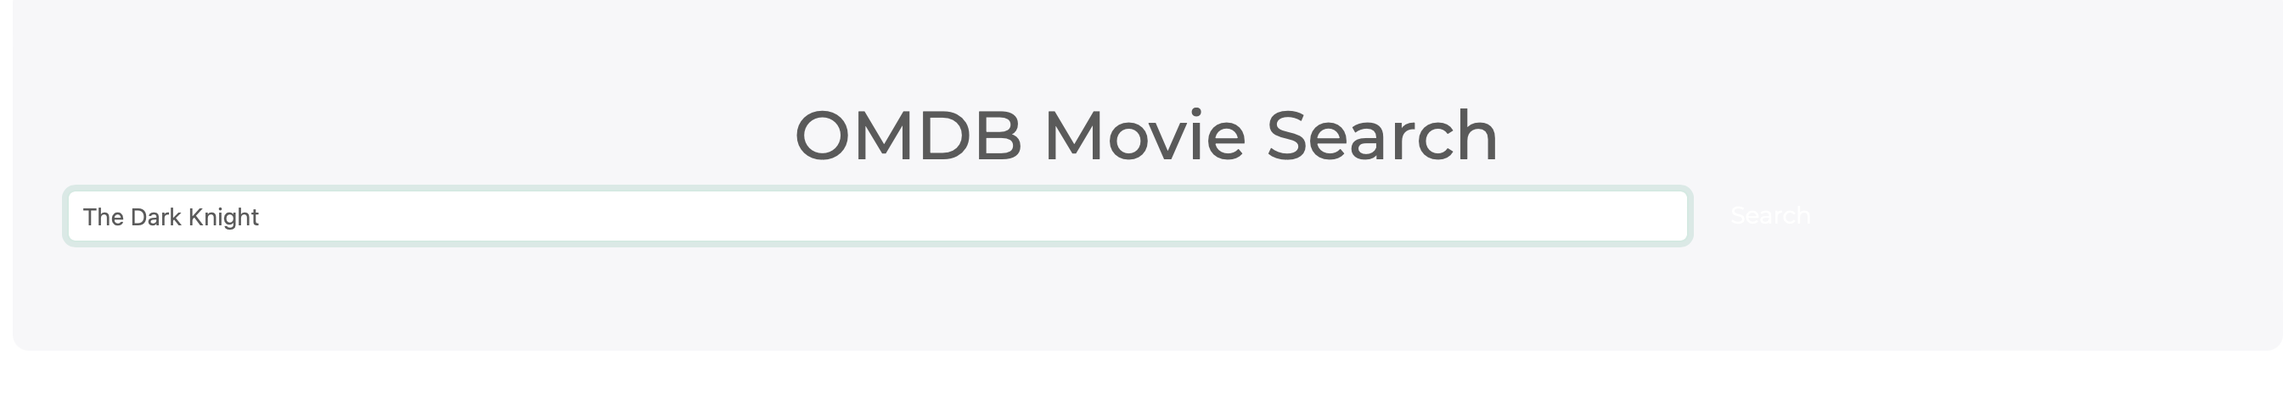
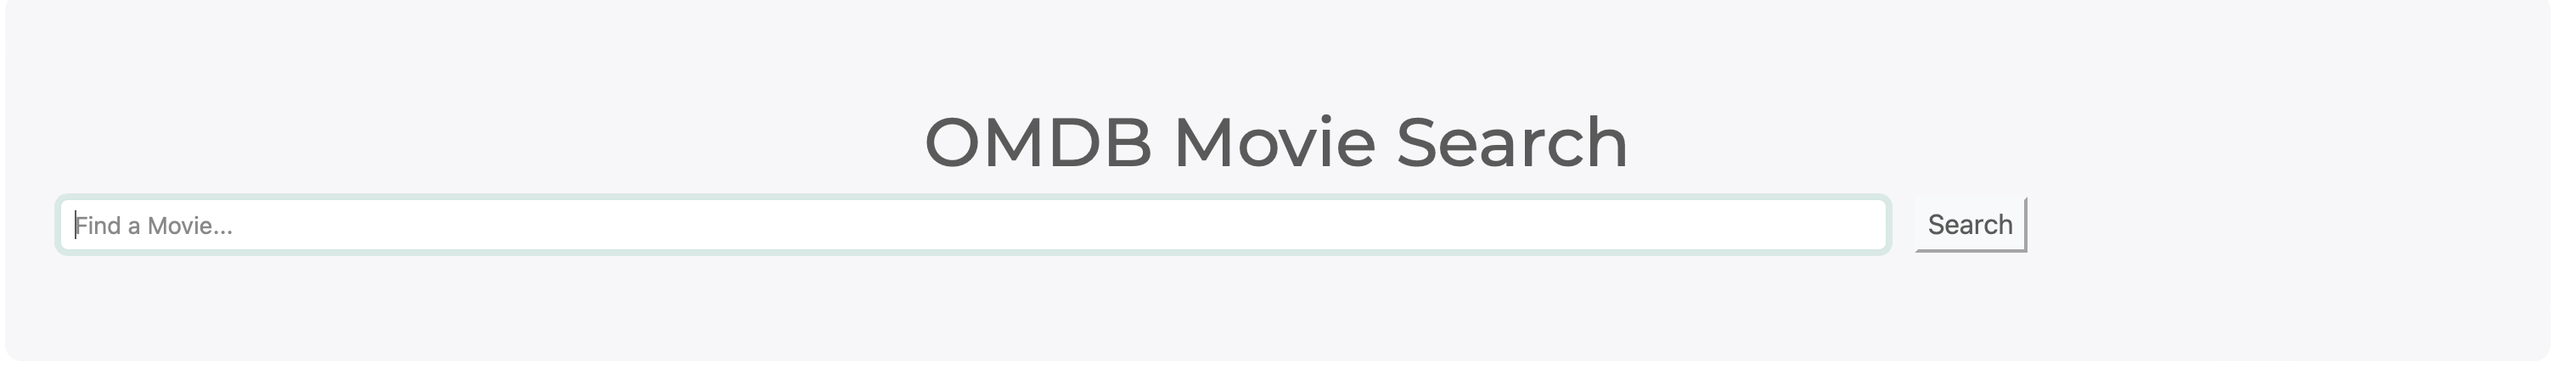
create button

Changed region(s): [[0.0, 0.4565, 0.7789, 0.6696], [0.3427, 0.2739, 0.6543, 0.4261]]

diff --git a/hw2/extra_credit/templates/index.html b/hw2/extra_credit/templates/index.html
@@ -14,7 +14,7 @@
                 <input name="searchmovies" class="form-control form-control-sm mr-3 w-75"
                     placeholder="Find a Movie..." aria-label="Search">
                 <i  aria-hidden="true"></i>
-                <button class="btn aqua-gradient btn-rounded btn-sm my-0" type="submit">Search</button>
+                <button class="btn-light" type="submit">Search</button>
             </form>
         </div>
         <div class="container-fluid row">
